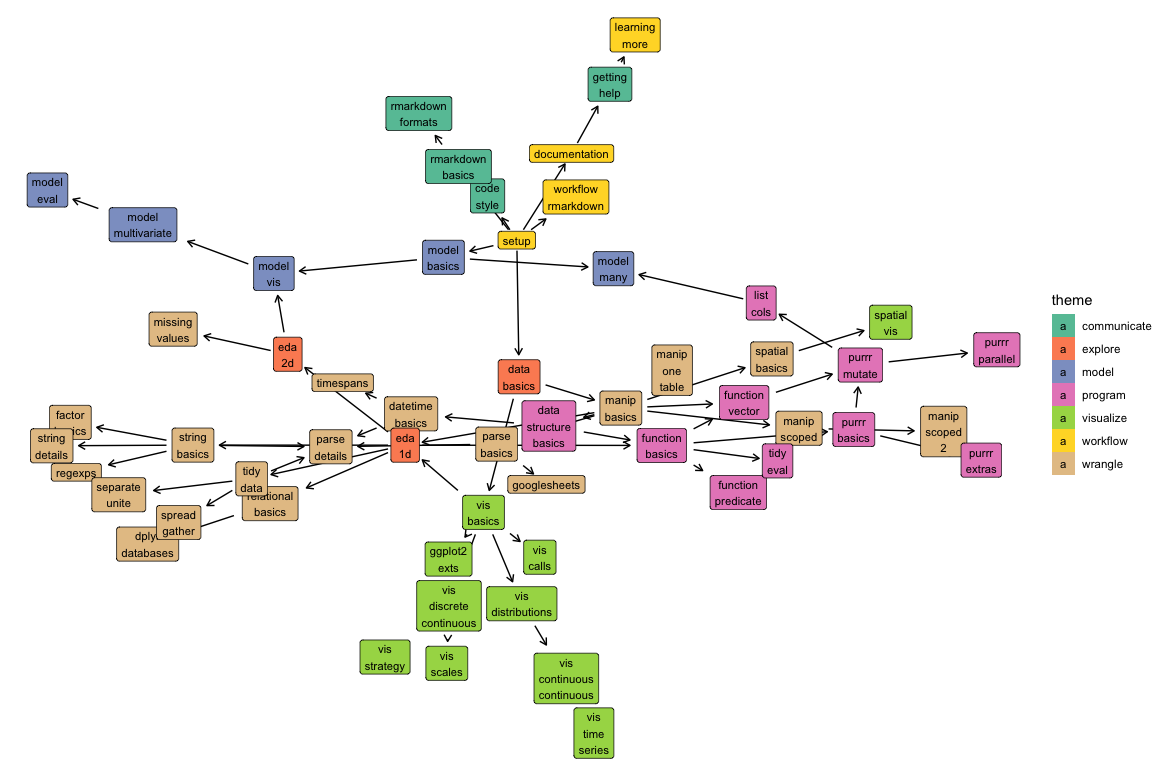
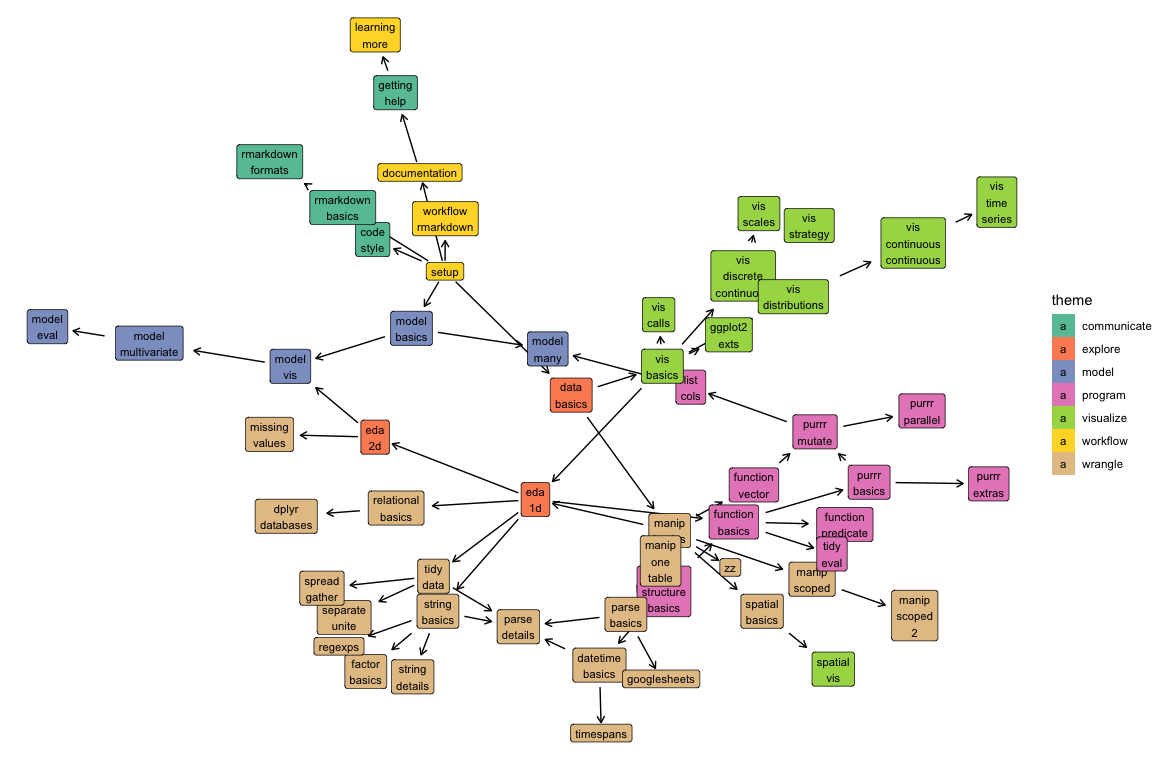
Update for week 5

diff --git a/docs/manip-basics.md b/docs/manip-basics.md
@@ -6,7 +6,7 @@ title: Manipulation basics
 
 # Manipulation basics <small class='wrangle'>[wrangle]</small>
 <small>(Builds on: [Data basics](data-basics.md))</small>  
-<small>(Leads to: [Data structure basics](data-structure-basics.md), [Exploratory data analysis (1D)](eda-1d.md), [Vector functions](function-vector.md), [Other single-table verbs](manip-one-table.md), [Scoped verb basics](manip-scoped.md), [Parsing basics](parse-basics.md), [Spatial basics](spatial-basics.md))</small>
+<small>(Leads to: [Data structure basics](data-structure-basics.md), [Exploratory data analysis (1D)](eda-1d.md), [Vector functions](function-vector.md), [Other single-table verbs](manip-one-table.md), [Scoped verb basics](manip-scoped.md), [Parsing basics](parse-basics.md), [Spatial basics](spatial-basics.md), [Spatial basics](zz.md))</small>
 
 
 ``` r
